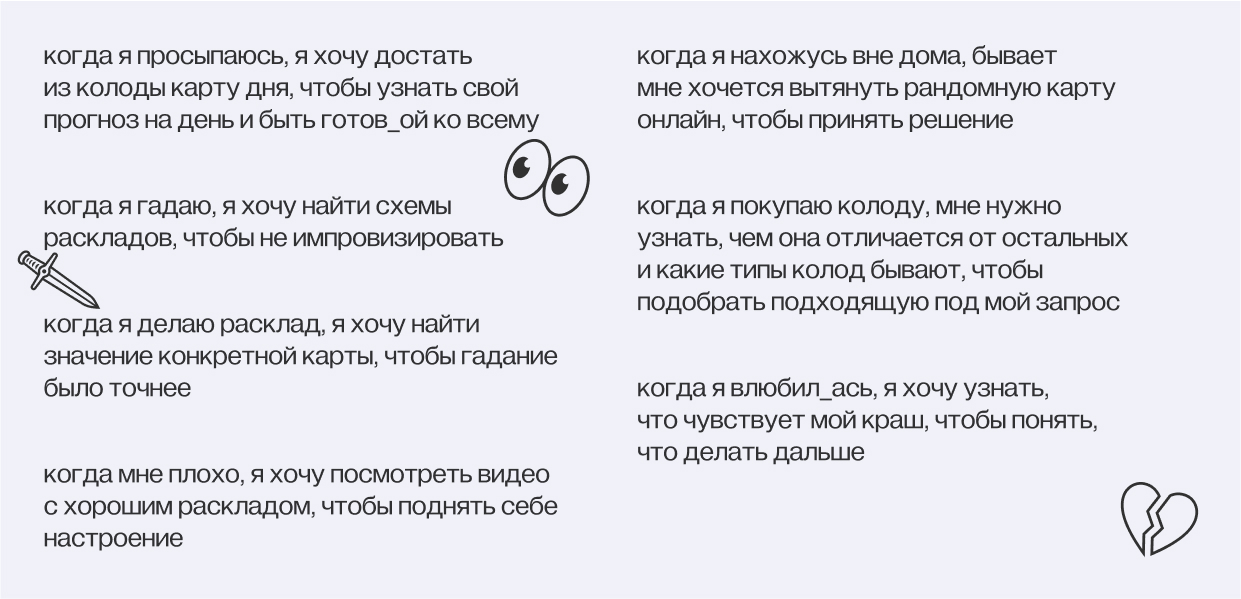
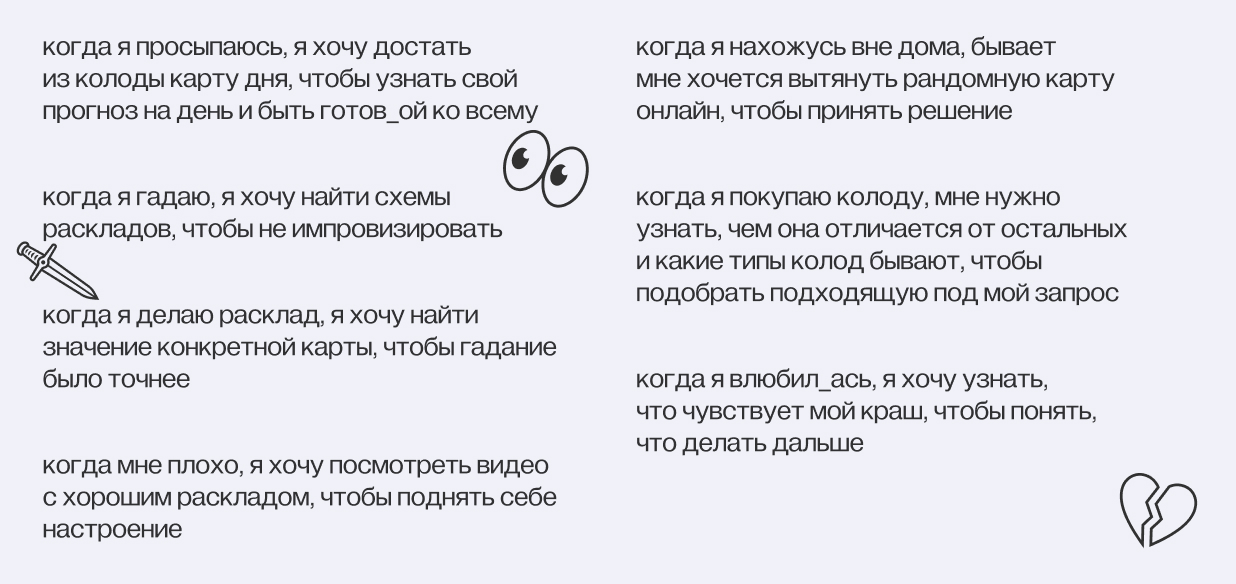
устала

diff --git a/app/assets/stylesheets/components.scss b/app/assets/stylesheets/components.scss
@@ -1235,7 +1235,19 @@
         display: flex;
         flex-direction: column;
         justify-content: flex-start;
-        gap: 20px;
+        gap: 10px;
+        margin-bottom: 40px;
+
+        .h2.Grey {
+          color: var(--grey);
+        }
+        .h3 {
+          margin-bottom: 30px;
+        }
+        .A_CaseImages {
+          width: 100%;
+          height: auto;
+        }
 
         .C_ColumnsRaskladBody {
           width: 100%;
@@ -1243,12 +1255,14 @@
           display: flex;
           flex-direction: row;
           justify-content: flex-start;
+
           .M_ColumnRaskladBody {
             width: 100%;
             gap: 20px;
             display: flex;
             flex-direction: row;
             justify-content: flex-start;
+            margin-bottom: 40px;
             .A_Column1RaskladBody {
               flex: 1;
               color: var(--grey);
